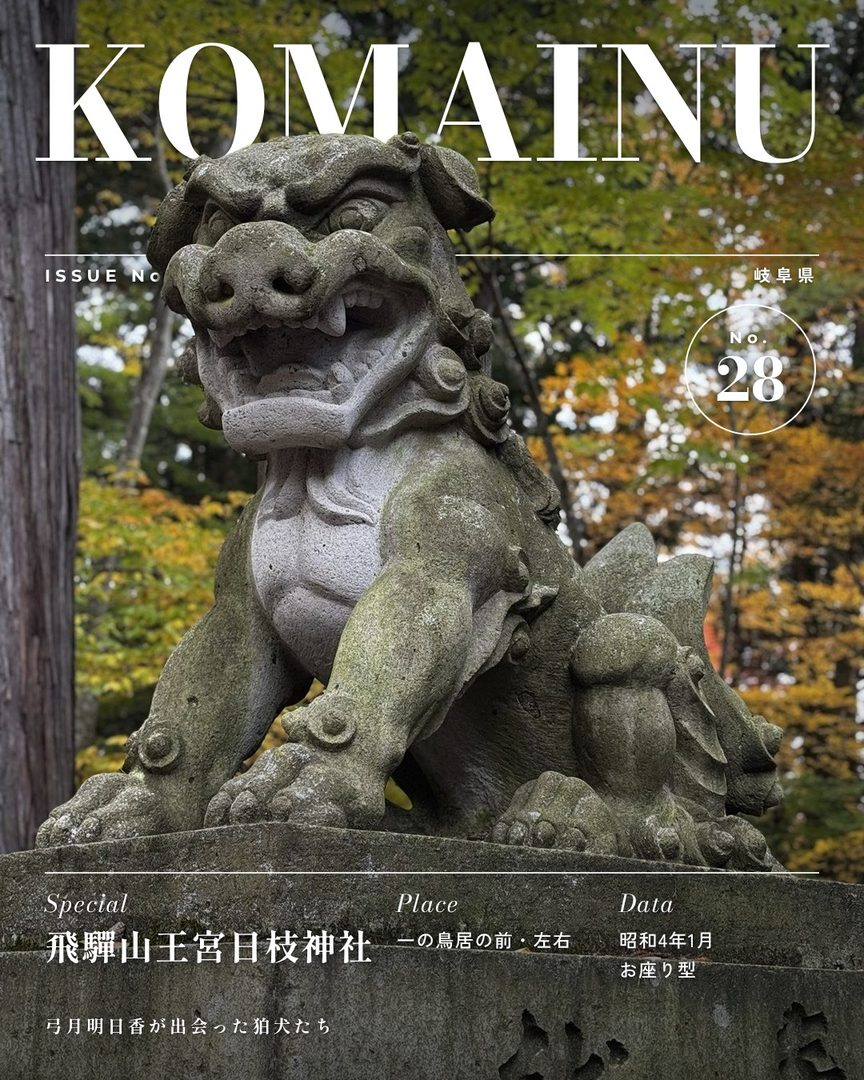
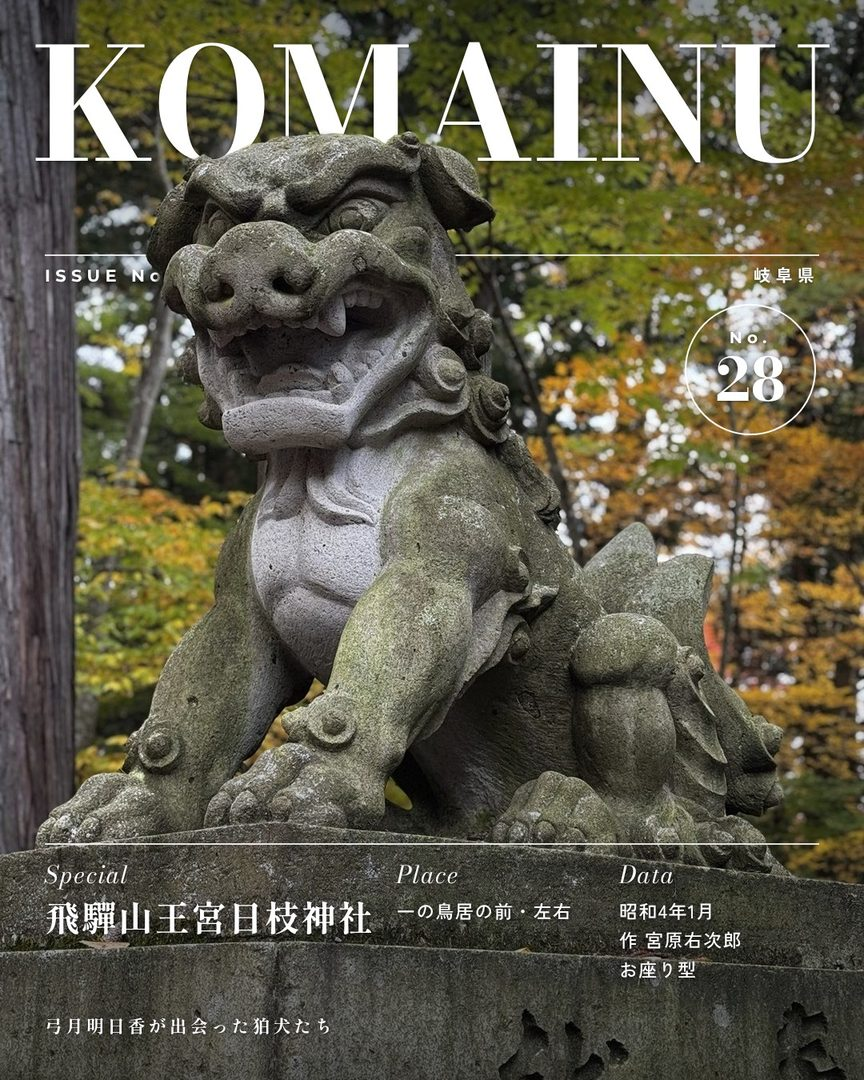
図鑑：日枝神社の石工 宮原右次郎を入れる（komainu-v57）
Claude-Session: https://claude.ai/code/session_01TBFoRxibf2evV9HUJqSJfP

Changed region(s): [[0.0312, 0.7944, 0.5938, 0.9167], [0.7188, 0.7944, 0.875, 0.8861], [0.625, 0.825, 0.6562, 0.8861]]

diff --git a/zukan/app.js b/zukan/app.js
@@ -521,7 +521,7 @@
 
   // 雑誌の表紙のような1枚。build/cover2/make4.py が作った画像(Instagram の1枚目と同じもの)をそのまま出す。
   // 狛犬を切り抜いて誌名の上に頭が重なる作りのため、画像で持つ。11種類を神社の並び順で回す
-  var COVER_V = '20261108c';
+  var COVER_V = '20261108d';
   // 対ごとの表紙(Instagram の各投稿の1枚目)。一覧には小さい版(images/covers/s/)を使う
   function coverSrc(k, sm) { return 'images/covers/' + (sm ? 's/' : '') + encodeURIComponent(k.id) + '.jpg?v=' + COVER_V; }
   function coverImg(k, alt, lazy) {

diff --git a/zukan/sw.js b/zukan/sw.js
@@ -1,7 +1,7 @@
 /* 狛犬図鑑 service worker
    アプリ本体は先に保存。data/ は新しいものを優先（通信できないときは保存分）。
    写真と地図タイルは見たものから保存する。データを差し替えたら CACHE の番号を上げる。 */
-var CACHE = 'komainu-v56';
+var CACHE = 'komainu-v57';
 var CORE = [
   './', 'index.html', 'style.css', 'app.js', 'maplibre-gl.css', 'manifest.webmanifest',
   'data/site.json', 'data/taxonomy.json', 'data/shrines.json',
